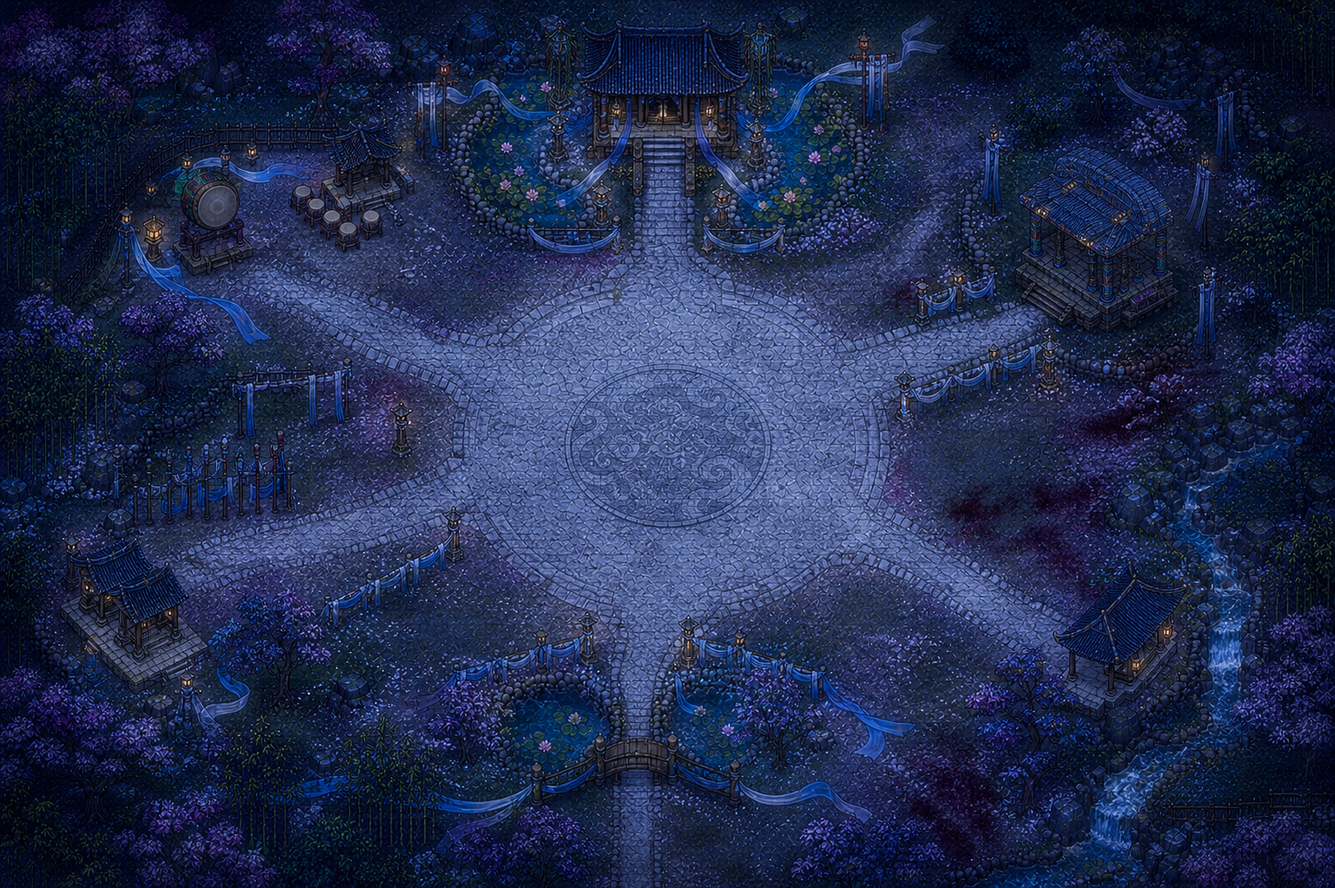
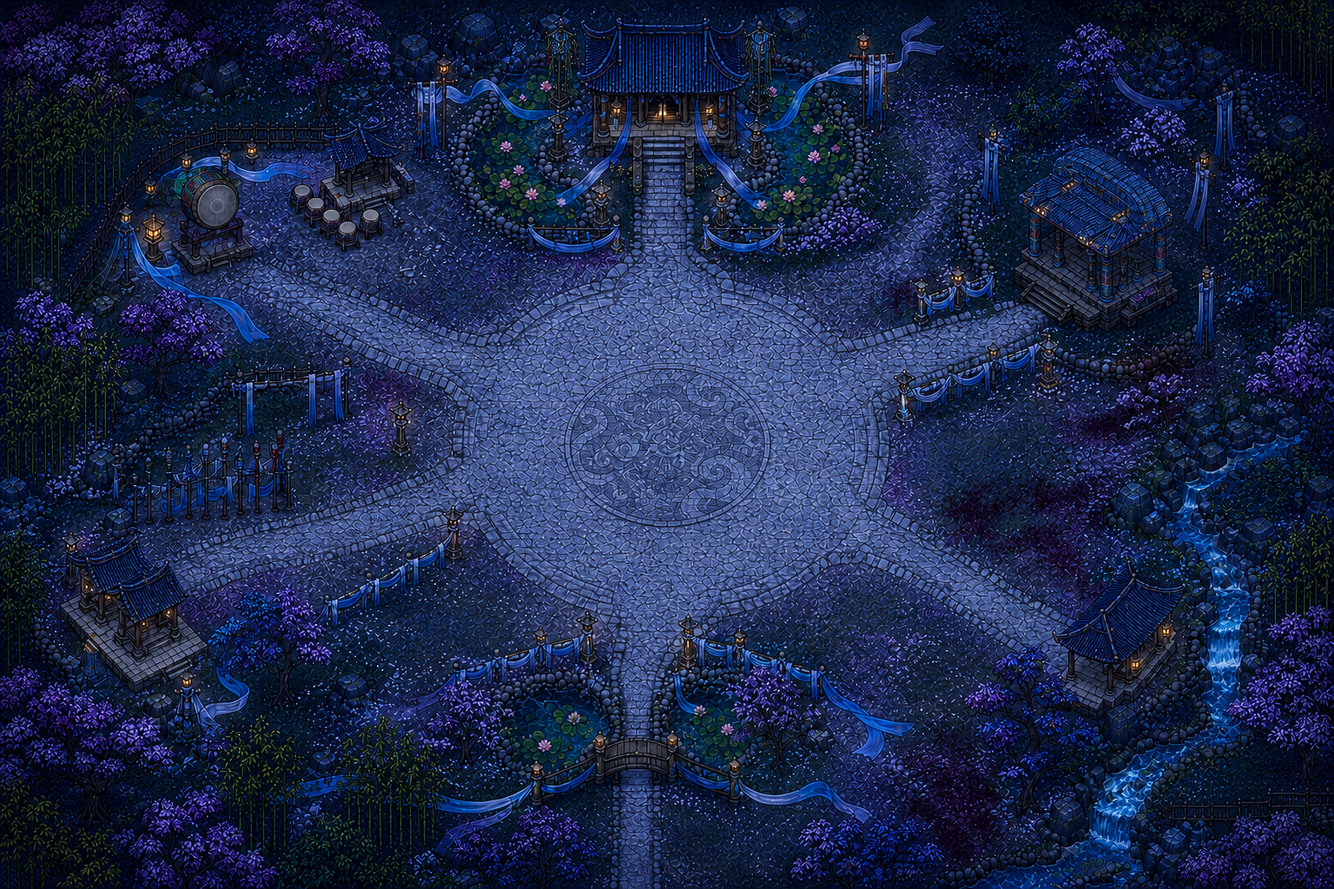
Improve map and character rendering quality

diff --git a/index.html b/index.html
@@ -50,8 +50,7 @@
       display: block;
       width: 100% !important;
       height: 100% !important;
-      image-rendering: pixelated;
-      image-rendering: crisp-edges;
+      image-rendering: auto;
     }
 
     .screen {
@@ -989,6 +988,13 @@
       box-shadow: inset 0 0 0 3px rgba(10,8,7,.6), 0 7px 18px rgba(0,0,0,.56);
     }
 
+    .character-card img,
+    #story-portrait,
+    .title-mascot img,
+    #hud-portrait {
+      image-rendering: auto;
+    }
+
     @media (max-width: 760px) {
       .title-layout { grid-template-columns: 1fr; }
       .title-mascot { min-height: 205px; margin-top: 14px; padding-bottom: 16px; }
@@ -1062,7 +1068,7 @@
     <aside id="hud" class="hidden" aria-live="polite">
       <div class="hud-top">
         <div class="hud-card">
-          <div class="hud-portrait-frame"><img id="hud-portrait" src="./assets/sprites/dokkaebi.png?v=20260808-1" alt="수호자 초상화" /></div>
+          <div class="hud-portrait-frame"><img id="hud-portrait" src="./assets/sprites/dokkaebi.png?v=20260808-2" alt="수호자 초상화" /></div>
           <div class="hud-vitals">
             <div id="hero-name">영웅</div>
             <div class="bar-row"><b>HP</b><div class="bar"><i id="hp-fill"></i></div><span id="hp-text">0/0</span></div>
@@ -1113,7 +1119,7 @@
         </div>
         <aside class="title-mascot" aria-label="달빛 길잡이 구미호">
           <span class="mascot-moon" aria-hidden="true"></span>
-          <img src="./assets/sprites/gumiho.png?v=20260808-1" alt="구미호 마스코트" />
+          <img src="./assets/sprites/gumiho.png?v=20260808-2" alt="구미호 마스코트" />
           <strong>달빛 길잡이</strong>
           <em>구미호</em>
         </aside>
@@ -1208,6 +1214,6 @@
 
   <script src="./src/sprite-data.js?v=20260807-1"></script>
   <script src="https://cdn.jsdelivr.net/npm/phaser@3.60.0/dist/phaser.min.js"></script>
-  <script src="./src/game.js?v=20260808-1"></script>
+  <script src="./src/game.js?v=20260808-2"></script>
 </body>
 </html>

diff --git a/src/game.js b/src/game.js
@@ -2,7 +2,8 @@ const WIDTH = 960;
 const HEIGHT = 640;
 const WORLD_WIDTH = 2400;
 const WORLD_HEIGHT = 1800;
-const SPRITE_VERSION = '20260808-1';
+const RENDER_RESOLUTION = 2;
+const SPRITE_VERSION = '20260808-2';
 const SUNSET_START = 34;
 const NIGHT_START = 55;
 const MID_BOSS_TIMES = [18, 38];
@@ -994,12 +995,19 @@ class GameScene extends Phaser.Scene {
     if (this.missingSpriteKeys.length) {
       console.error('Required embedded sprites failed to load:', this.missingSpriteKeys.join(', '));
     }
+    const highResolutionTextureKeys = [
+      ...Object.keys(EMBEDDED_TEXTURE_FILES),
+      ...CHAPTER_BACKGROUND_FILES.map((fileName, index) => chapterBackgroundKey(index))
+    ];
+    highResolutionTextureKeys.forEach(key => {
+      if (this.textures.exists(key)) this.textures.get(key).setFilter(Phaser.Textures.FilterMode.LINEAR);
+    });
   }
 
   createWorld() {
     this.physics.world.setBounds(0, 0, WORLD_WIDTH, WORLD_HEIGHT);
     this.cameras.main.setBounds(0, 0, WORLD_WIDTH, WORLD_HEIGHT);
-    this.cameras.main.roundPixels = true;
+    this.cameras.main.roundPixels = false;
 
     this.groundBase = this.add.rectangle(0, 0, WORLD_WIDTH, WORLD_HEIGHT, 0x263b2e)
       .setOrigin(0)
@@ -4083,10 +4091,20 @@ const config = {
   type: Phaser.AUTO,
   width: WIDTH,
   height: HEIGHT,
+  resolution: RENDER_RESOLUTION,
   parent: 'game-container',
   backgroundColor: '#070914',
-  pixelArt: true,
-  roundPixels: true,
+  antialias: true,
+  antialiasGL: true,
+  pixelArt: false,
+  roundPixels: false,
+  render: {
+    antialias: true,
+    antialiasGL: true,
+    pixelArt: false,
+    roundPixels: false,
+    powerPreference: 'high-performance'
+  },
   scale: {
     mode: Phaser.Scale.FIT,
     autoCenter: Phaser.Scale.CENTER_BOTH

diff --git a/README.md b/README.md
@@ -26,6 +26,7 @@
 - 2단계 폭주 패턴을 지닌 도깨비 대왕, 천년 구미호, 불가살이, 산군, 역신, 염라대왕 전투
 - 경험치 바에 현재 경험치와 다음 레벨 필요량이 표시되며 레벨이 높아질수록 요구 경험치가 가속 증가
 - 수호자 초상화와 한옥 처마·창호 문양을 적용한 HUD·지도·메뉴
+- 2배 해상도 렌더링과 선형 텍스처 필터링으로 캐릭터·배경 확대 시 발생하던 계단 현상과 거친 픽셀 축소
 - 전용 픽셀아트 스프라이트가 적용된 화로·안개석·금문 수호진·산바람 돌탑·처용 정화 북·저승 영혼샘
 
 
